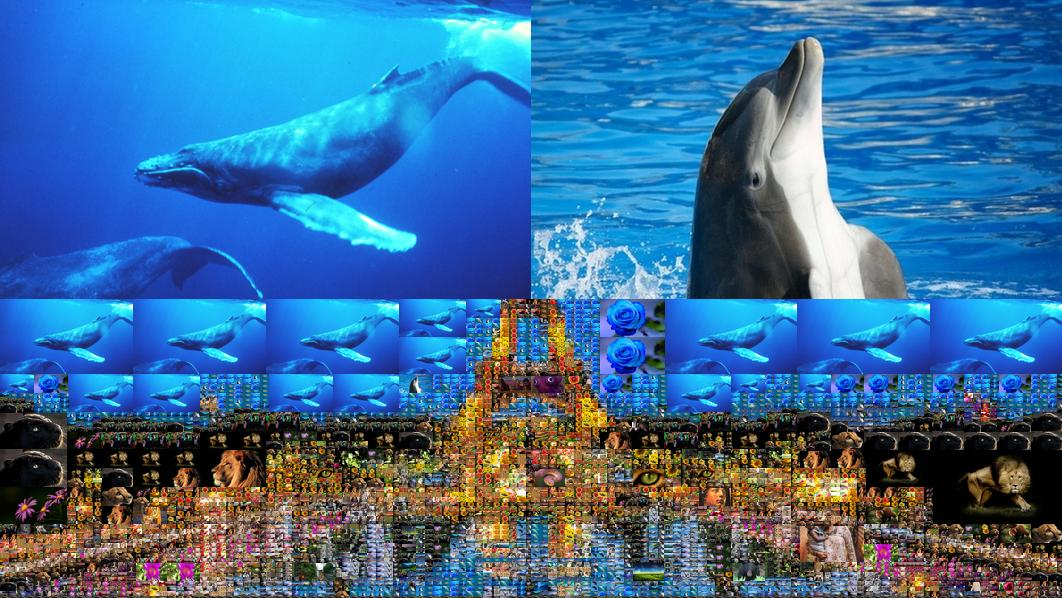
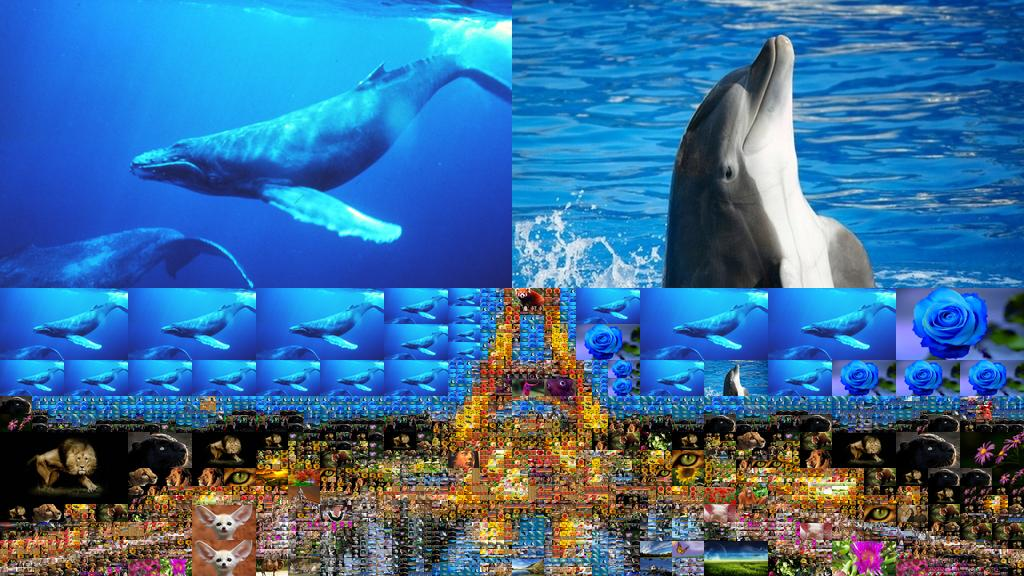
fixed grid lines in mosaics by cropping input images to dimensions of a multiple of 64 to allow for 6 clean divisions

diff --git a/mosaic.py b/mosaic.py
@@ -21,12 +21,37 @@ num_blocks = 0
 ##################
 #open source image
 ##################
-def resize_source_image( image ):  
-  #default dimensions to resize source image to
+def resize_source_image(image, quadtree):  
+  #hard coded max dimensions to resize source image to
   source_size = 3000,3000
   image.thumbnail(source_size, Image.ANTIALIAS)
+  new_x = image.size[0]
+  new_y = image.size[1]
+
+  if quadtree:
+    #we must crop to a power of 64 so we can guarantee 6 levels of smooth quad divisions
+    powers_of_64 = []
+    base = 64
+    for i in range(1,47): #47 * 16 is the closest number to 3000, our max size
+      powers_of_64.append(base * i)
+
+    new_x = min(powers_of_64, key=lambda x:abs(x-image.size[0]))
+    #make sure the new x isn't larger than the original
+    if new_x > image.size[0]:
+      powers_of_64.remove(new_x)
+      new_x = min(powers_of_64, key=lambda x:abs(x-image.size[0]))
+
+    new_y = min(powers_of_64, key=lambda y:abs(y-image.size[1]))
+    if new_y > image.size[1]:
+      powers_of_64.remove(new_y)
+      new_y = min(powers_of_64, key=lambda y:abs(y-image.size[1]))
+
+    print 'Output mosaic size:', new_x, new_y
+
+    image = image.crop((0,0,new_x,new_y))
+
   image.show()
-  return image
+  return image, new_x, new_y
 
 ##################
 #open tile images in library
@@ -120,9 +145,10 @@ def fill_tile_library(tile_dict):
   db.commit()
   db.close()
 
-  R_overflow = 256
-  G_overflow = 256
-  B_overflow = 256
+  #potential solution to images off same rgb
+  #R_overflow = 256
+  #G_overflow = 256
+  #B_overflow = 256
 
   #put tile images from database into our rgb/image dictionary
   print 'Gathering image tiles from library...'
@@ -134,9 +160,9 @@ def fill_tile_library(tile_dict):
       #tile_dict[((db_tiles[i])[1], (db_tiles[i])[2], (db_tiles[i])[3])].show()
       #t.show()
       #tile_dict[(R_overflow, G_overflow, B_overflow)] = t
-      R_overflow+=1
-      G_overflow+=1
-      B_overflow+=1
+      #R_overflow+=1
+      #G_overflow+=1
+      #B_overflow+=1
     else:
       tile_dict[((db_tiles[i])[1], (db_tiles[i])[2], (db_tiles[i])[3])] = t
 
@@ -167,43 +193,41 @@ def calculate_variance(node):
   quadlist, coords = divide_image_into_quads(node.data)
   quadlist_averages = []
 
-  quadquadlist = []
-  quadquadlist_averages = []
-  new_coords = []
+  sub_quad_list = []
+  sub_quad_list_averages = []
+  #new_coords = []
 
+  #divide quads into 4 further quads each to get a more representative variance over 16 blocks
   for q in quadlist:
-    tempquad, tempcoords = divide_image_into_quads(q)
-    quadquadlist.append(tempquad)
-    new_coords.append(tempcoords)
-  #for x in quadquadlist:
-    #print x
+    sub_quad, sub_quad_coords = divide_image_into_quads(q)
+    sub_quad_list.append(sub_quad)
+    #new_coords.append(sub_quad_coords)
+
   #get average rgb for each quad (for variance calculation) & put blocks into dict
   for i in quadlist:
     average_rgb = calc_average_rgb(i, True)
     quadlist_averages.append(average_rgb)
 
-  for j in quadquadlist:
+  for j in sub_quad_list:
     for k in j:
       average_rgb = calc_average_rgb(k, True)
-      #print average_rgb
-      quadquadlist_averages.append(average_rgb)
+      sub_quad_list_averages.append(average_rgb)
 
- # print quadquadlist_averages
   #get mean rgb for all 4 quads
-  RValues = [x[0] for x in quadquadlist_averages]
-  GValues = [x[1] for x in quadquadlist_averages]
-  BValues = [x[2] for x in quadquadlist_averages]
+  RValues = [x[0] for x in sub_quad_list_averages]
+  GValues = [x[1] for x in sub_quad_list_averages]
+  BValues = [x[2] for x in sub_quad_list_averages]
 
   average_quad_rgb_value = ( sum(RValues)/len(RValues), sum(GValues)/len(GValues), sum(BValues)/len(BValues) )
 
   #get distances from quad averages to overall mean
-  quadquadlist_distances = []
-  for x in quadquadlist_averages:
-    quadquadlist_distances.append(distance(x, average_quad_rgb_value))
+  sub_quad_list_distances = []
+  for x in sub_quad_list_averages:
+    sub_quad_list_distances.append(distance(x, average_quad_rgb_value))
 
   #square distances
   distances_squared = []
-  for y in quadquadlist_distances:
+  for y in sub_quad_list_distances:
     distances_squared.append(y**2)
 
   #calculate variance for image
@@ -218,11 +242,12 @@ def quadify_image(node, quad_rgb_dict, quad_hash_dict):
   variance, quadlist, quadlist_averages, num_blocks, coords = calculate_variance(node)
 
   if num_blocks < 4:
-    print 'Initial var:', variance
+    print 'Initial variance:', variance
+    #if the initial variance is below this value we need to allow more subtle differences
     if variance < 2500:
       global variance_threshold
       variance_threshold /= 2
-      print 'var thresh', variance_threshold
+      print 'Reduced variance threshold to', variance_threshold
   #if variance is above threshold, quadify again
   #print 'ID:', node.ID, 'variance:', variance
   if variance > variance_threshold and node.data.size > (10,10):
@@ -238,7 +263,6 @@ def quadify_image(node, quad_rgb_dict, quad_hash_dict):
     node.topleft.rgb_avg = quadlist_averages[0]
     node.topleft.ID = int(str(node.ID) + str(1))    
     node.topleft.coords = tuple(map(sum,zip(node.coords,coords[0])))
-    #print 'New quad created with ID #', node.topleft.ID
     #put rgb average data into the quad/block dict
     quad_rgb_dict[node.topleft.ID] = [node.topleft.rgb_avg, node.topleft.data, node.topleft.coords]
     quad_hash_dict[node.topleft.ID] = calc_image_hash(node.topleft.data)
@@ -247,7 +271,6 @@ def quadify_image(node, quad_rgb_dict, quad_hash_dict):
     node.bottomleft.rgb_avg = quadlist_averages[1]
     node.bottomleft.ID = int(str(node.ID) + str(2))
     node.bottomleft.coords = tuple(map(sum,zip(node.coords,coords[1])))
-    #print 'New quad created with ID #', node.bottomleft.ID
     quad_rgb_dict[node.bottomleft.ID] = [node.bottomleft.rgb_avg, node.bottomleft.data, node.bottomleft.coords]
     quad_hash_dict[node.bottomleft.ID] = calc_image_hash(node.bottomleft.data)
 
@@ -255,7 +278,6 @@ def quadify_image(node, quad_rgb_dict, quad_hash_dict):
     node.topright.rgb_avg = quadlist_averages[2]
     node.topright.ID = int(str(node.ID) + str(3))
     node.topright.coords = tuple(map(sum,zip(node.coords,coords[2])))
-    #print 'New quad created with ID #', node.topright.ID
     quad_rgb_dict[node.topright.ID] = [node.topright.rgb_avg, node.topright.data, node.topright.coords]
     quad_hash_dict[node.topright.ID] = calc_image_hash(node.topright.data)
 
@@ -263,7 +285,6 @@ def quadify_image(node, quad_rgb_dict, quad_hash_dict):
     node.bottomright.rgb_avg = quadlist_averages[3]
     node.bottomright.ID = int(str(node.ID) + str(4))
     node.bottomright.coords = tuple(map(sum,zip(node.coords,coords[3])))
-    #print 'New quad created with ID #', node.bottomright.ID
     quad_rgb_dict[node.bottomright.ID] = [node.bottomright.rgb_avg, node.bottomright.data, node.bottomright.coords]
     quad_hash_dict[node.bottomright.ID] = calc_image_hash(node.bottomright.data)
 
@@ -288,14 +309,14 @@ def create_mosaic(source_image, input_tile_size, outlier_flagging, vary_tiles, c
 
   target_image = Image.open(source_image)
   tile_size = input_tile_size, input_tile_size
-  target_image = resize_source_image(target_image)  
+  target_image, width, height = resize_source_image(target_image, quadtree)  
 
   #Key = RGB, Value = Image
   tile_rgb_averages = {}
   fill_tile_library(tile_rgb_averages)  
 
   #create base mosaic image of default dimensions
-  mosaic = Image.new('RGB', (target_image.size[0], target_image.size[1]), color=(255, 0, 255))
+  mosaic = Image.new('RGB', (width, height), color=(255, 0, 255))
 
   x_offset = 0
   y_offset = 0
@@ -333,7 +354,9 @@ def create_mosaic(source_image, input_tile_size, outlier_flagging, vary_tiles, c
       #perform wavelet analysis on the matches to pick the best
       closest_hashes = {}
       for rgb in closest_rgb_matches:
-        closest_hashes[calc_image_hash(tile_rgb_averages[rgb])] = rgb
+        #fitted to block size to get accurate hash
+        fitted_tile = ImageOps.fit(tile_rgb_averages[rgb], block_image.size, Image.ANTIALIAS)
+        closest_hashes[calc_image_hash(fitted_tile)] = rgb
       hash_diffs = {}
       for h in closest_hashes.keys():
         hash_diffs[h - quad_hash_dict.get(key)] = h
@@ -341,15 +364,11 @@ def create_mosaic(source_image, input_tile_size, outlier_flagging, vary_tiles, c
       final_hash = hash_diffs[min(hash_diffs)]
       final_rgb = closest_hashes[final_hash]
 
-      #print '\n', key
-      #print 'Size:',block_image.size
-
       #resize and paste tile into place in output mosaic image
       if tile_rgb_averages[final_rgb].size != block_image.size:
         tile_rgb_averages[final_rgb] = ImageOps.fit(tile_rgb_averages.get(final_rgb), block_image.size, Image.ANTIALIAS)
       
       x_offset, y_offset = quad_rgb_dict.get(key)[2]
-      #print 'X:', x_offset, 'Y:', y_offset
 
       #paste replacement tile into place
       final_tile = tile_rgb_averages[final_rgb]
@@ -409,7 +428,6 @@ def create_mosaic(source_image, input_tile_size, outlier_flagging, vary_tiles, c
           block_solid_rgb = Image.new('RGB',final_tile.size,block_rgb_dict.values()[i])
           mask = Image.new('RGBA',final_tile.size,(0,0,0,95)) #lower is more cheaty
           final_tile = Image.composite(final_tile,block_solid_rgb,mask).convert('RGB')
-          #final_tile = ImageChops.blend(final_tile, block_solid_rgb, 0.5)
 
         mosaic.paste(final_tile, (x_offset,y_offset))
 
@@ -425,8 +443,6 @@ def create_mosaic(source_image, input_tile_size, outlier_flagging, vary_tiles, c
       if progress_percentage % 5 == 0:
         print "Progress: ", progress_percentage, "%"
 
-  #mosaic = mosaic.filter(ImageFilter.MedianFilter)
-
   if super_cheat:
     mask = target_image
     mosaic = ImageChops.blend(mosaic, mask, 0.5)
@@ -439,5 +455,5 @@ def create_mosaic(source_image, input_tile_size, outlier_flagging, vary_tiles, c
   print 'Time elapsed: ', end - start
 
 
-#work out what is causing grid lines on quadtree method
-#try calculating literal image variance (will probably take too long)
+#'share' cropped pixels between all sides, not just bottom/right
+#try on laptop with huge library

diff --git a/test_image.py b/test_image.py
@@ -17,5 +17,5 @@ image.save('/home/mbax4sd2/3rd Year Project/' + image_name)
 result = commands.getstatusoutput('compare -metric SSIM ' + mosaic_image + ' ' + image_name + ' output/diff.jpg')
 print result[1]
 
-#command for generating a diff on 2 images. good enough for difference testing?
+#command for generating a SSIM diff on 2 images.
 #compare -metric PSNR mesmall.jpg output/me2mosaic.jpg output/diff.jpg

diff --git a/processlibrary.py b/processlibrary.py
@@ -8,9 +8,7 @@ db = sqlite3.connect(sqlite_file)
 cursor = db.cursor()
 
 cursor.execute("CREATE TABLE IF NOT EXISTS tiles(file_name TEXT PRIMARY KEY, RValue INT, GValue INT, BValue INT)")
-
 cursor.execute("SELECT * FROM tiles")
-#print cursor.fetchall()
 
 counter = 0
 os.chdir(r'library')

diff --git a/RGBhistogram.py b/RGBhistogram.py
@@ -42,7 +42,6 @@ def calculate_variance(library):
 
 def generate_RGB_buckets(image):
   image = ImageOps.fit(image, (50,50), Image.ANTIALIAS)
-  #image.show()
 
   PixelValues = list(image.getdata())
 
